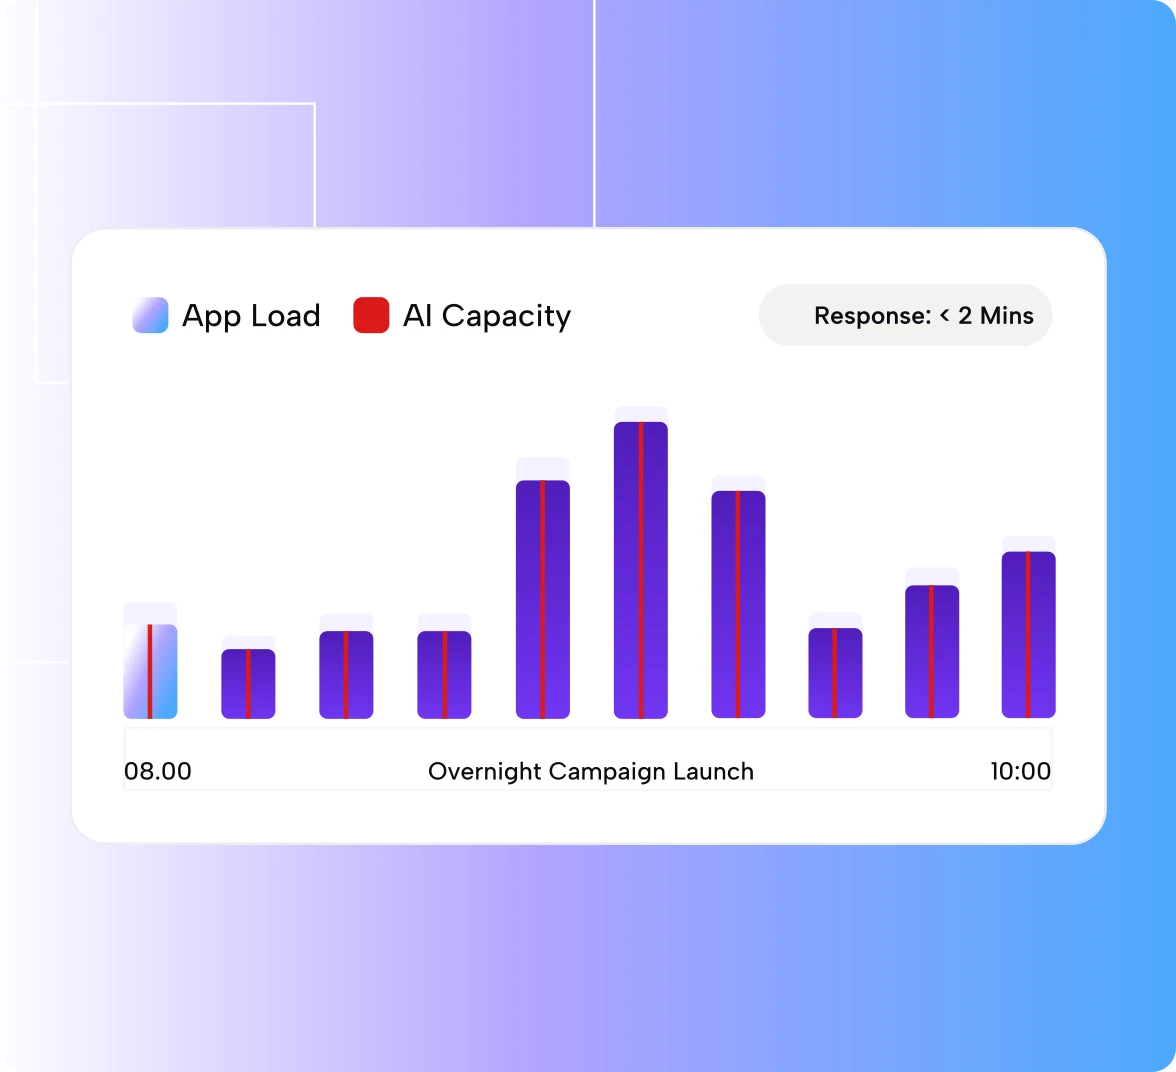
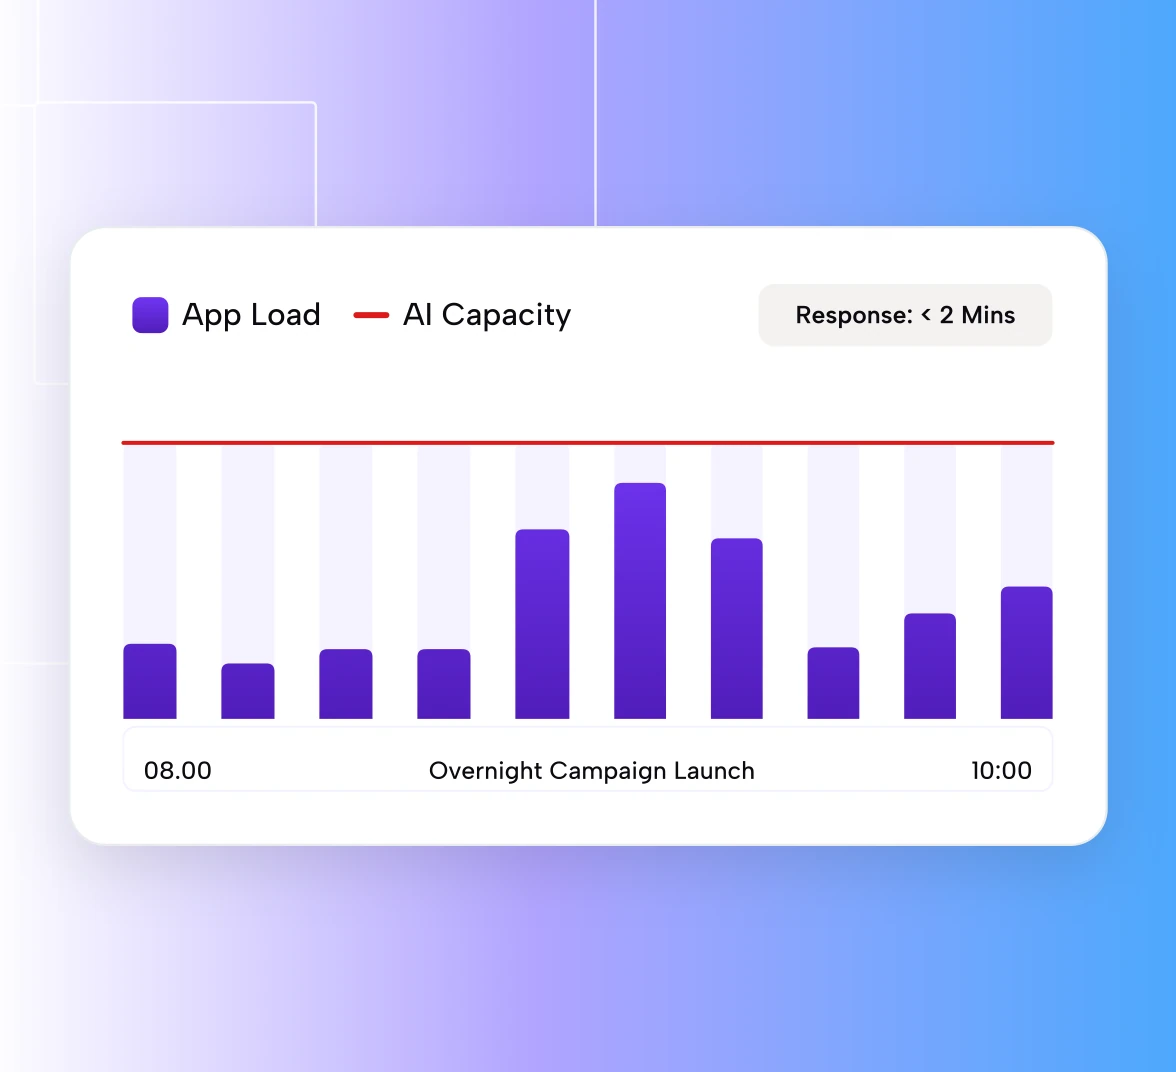
Redraw the high-volume capacity chart so both series read
Two faults, both in the design file rather than the exporter.

The "AI Capacity" series was a set of zero-width VECTOR nodes, so the only
thing that could ever render was a 2px hairline down the middle of each bar.
A line cannot be compared against a bar, so the second series carried no
information at all — and the capacity it stood for sat 8px above the load,
which reads as capacity running out rather than absorbing the spike.

The first bar was built from a different component instance than the other
nine: its gradient ran near-white through lavender to azure — the page's own
background wash — instead of the violet the rest used, which is why the
leftmost bar looked empty. The legend swatch came from that same wrong
instance, so it matched one bar in ten.

Redrawn against the section's copy, where a campaign launches and the AI
absorbs the overnight spike. That makes capacity a ceiling, so it is drawn as
one: a rule across the plot with every bar under it and the pale column behind
each bar showing the headroom left. One gradient for all ten bars, and the
legend now carries it. Each legend key takes the shape of the mark it stands
for — a tile for the bars, a rule for the ceiling — so identity never rests on
colour alone and the plot needs no repeated label.

Both hues are the design's own; the pair was checked with the palette
validator and passes the lightness band, chroma floor, colour-vision
[…]

diff --git a/src/data/creatives.ts b/src/data/creatives.ts
@@ -135,15 +135,6 @@ export const creatives = {
     "designHeight": 536,
     "alt": "AI voice agents engaging 500+ candidates"
   },
-  "hv-always-on": {
-    "src": "/figma/creatives/hv-always-on.webp",
-    "fallback": "/figma/creatives/hv-always-on.png",
-    "width": 1176,
-    "height": 1072,
-    "designWidth": 588,
-    "designHeight": 536,
-    "alt": "AI capacity absorbing an overnight application spike"
-  },
   "mg-card-bullhorn": {
     "src": "/figma/creatives/mg-card-bullhorn.webp",
     "fallback": "/figma/creatives/mg-card-bullhorn.png",
@@ -269,6 +260,15 @@ export const creatives = {
     "designWidth": 588,
     "designHeight": 536,
     "alt": "A pending-review queue listing each job with its client and how long it has waited"
+  },
+  "hv-always-on": {
+    "src": "/figma/creatives/hv-always-on.webp",
+    "fallback": "/figma/creatives/hv-always-on.png",
+    "width": 1176,
+    "height": 1072,
+    "designWidth": 588,
+    "designHeight": 536,
+    "alt": "Application volume through an overnight campaign launch, every hour of it sitting under the AI capacity ceiling with headroom to spare"
   },
   "mg-transfer": {
     "src": "/figma/creatives/mg-transfer.webp",
